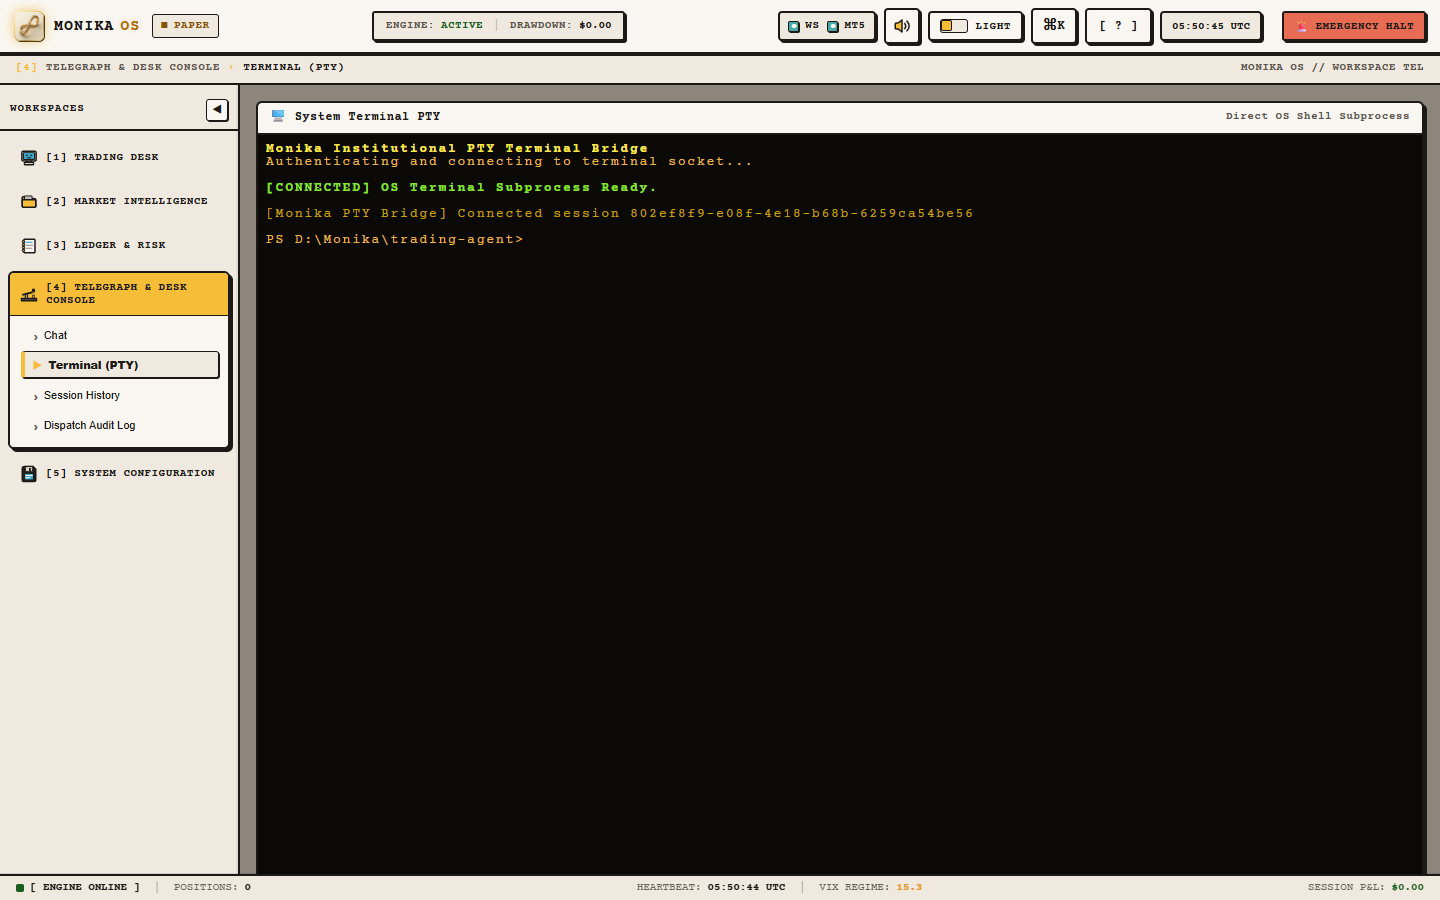
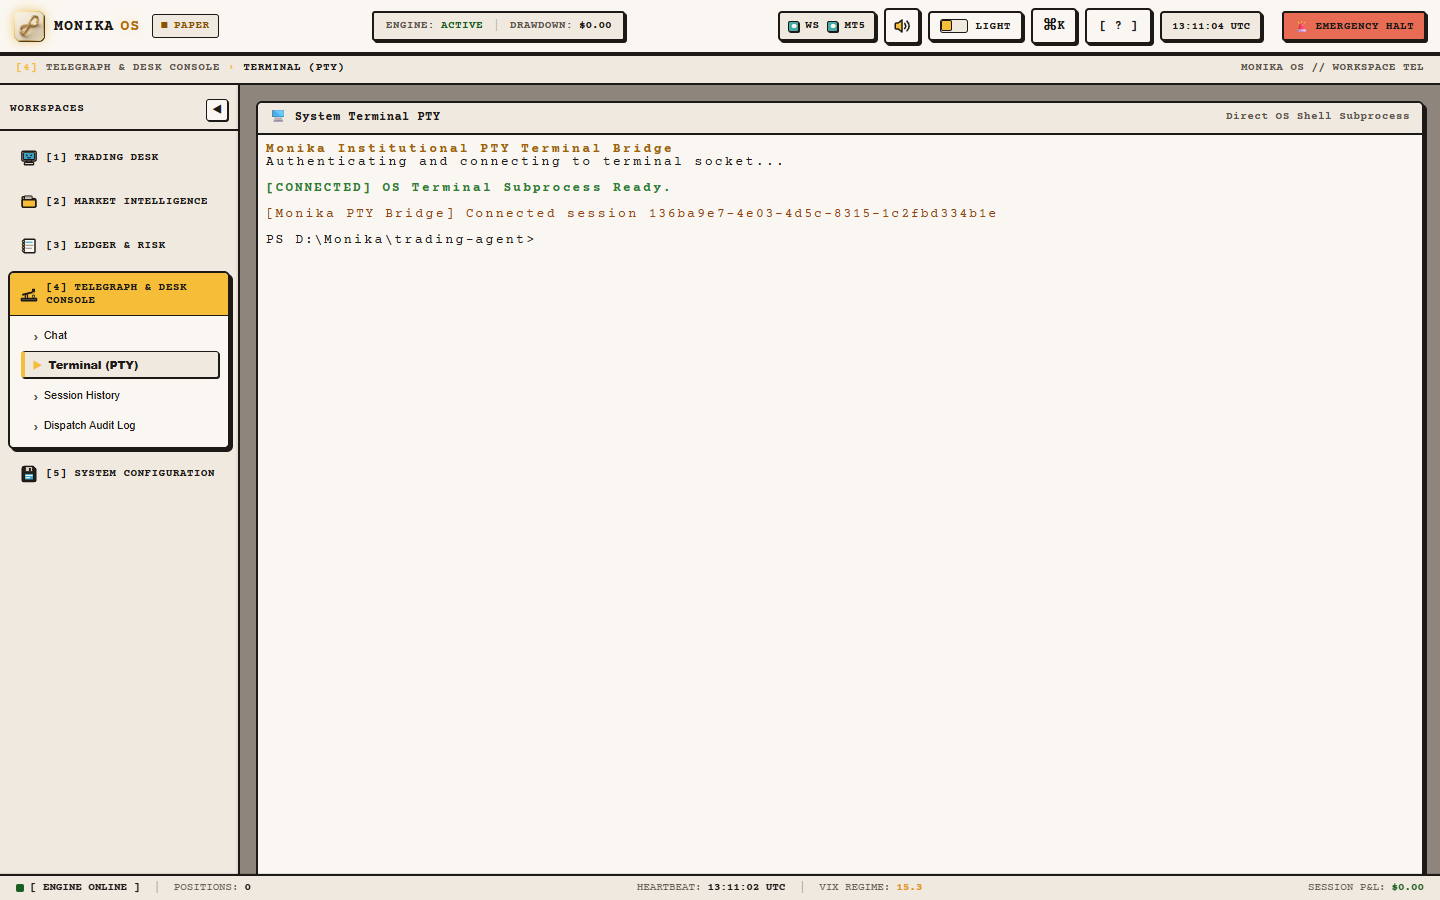
feat(dashboard): adapt terminal pty to dual light and dark theme
- Subscribe TerminalPanel to dashboardStore theme for reactive switching
- Add WCAG AA compliant light terminal theme (rich charcoal ink on #FAF7F2 parchment paper)
- Add dark terminal theme (phosphor amber on #0B0906 CRT console)
- Add viewport background CSS variables for light and dark modes
- Recapture docs/images/dashboard/web_18_terminal_pty_{light,dark}.png

Verified-by: oxlint, vite build, ruff check

diff --git a/trading-agent/logging_observability/dashboard/frontend/src/components/panels/TerminalPanel.tsx b/trading-agent/logging_observability/dashboard/frontend/src/components/panels/TerminalPanel.tsx
@@ -1,8 +1,59 @@
 import React, { useEffect, useRef } from 'react';
-import { Terminal } from '@xterm/xterm';
+import { Terminal, type ITheme } from '@xterm/xterm';
 import { FitAddon } from '@xterm/addon-fit';
 import '@xterm/xterm/css/xterm.css';
 import { api, getStoredToken } from '../../lib/api';
+import { useDashboardStore } from '../../store/dashboardStore';
+
+const DARK_TERMINAL_THEME: ITheme = {
+  background: '#0B0906',
+  foreground: '#E8B94A',
+  cursor: '#F5BD38',
+  cursorAccent: '#0B0906',
+  selectionBackground: 'rgba(232, 185, 74, 0.3)',
+  selectionForeground: '#FAF7F2',
+  black: '#0B0906',
+  red: '#E25B45',
+  green: '#4CAF50',
+  yellow: '#F5BD38',
+  blue: '#3BA4C4',
+  magenta: '#D3869B',
+  cyan: '#48A9A6',
+  white: '#FAF7F2',
+  brightBlack: '#5C544C',
+  brightRed: '#F46A6A',
+  brightGreen: '#66BB6A',
+  brightYellow: '#F5BD38',
+  brightBlue: '#5BC3E0',
+  brightMagenta: '#E5A4B8',
+  brightCyan: '#64C5B1',
+  brightWhite: '#FFFFFF',
+};
+
+const LIGHT_TERMINAL_THEME: ITheme = {
+  background: '#FAF7F2',
+  foreground: '#1C1917',
+  cursor: '#1C1917',
+  cursorAccent: '#FAF7F2',
+  selectionBackground: 'rgba(59, 164, 196, 0.3)',
+  selectionForeground: '#1C1917',
+  black: '#1C1917',
+  red: '#B71C1C',
+  green: '#1B5E20',
+  yellow: '#92400E',
+  blue: '#1B365D',
+  magenta: '#7B1FA2',
+  cyan: '#0F5E77',
+  white: '#EFE9DF',
+  brightBlack: '#5C544C',
+  brightRed: '#D32F2F',
+  brightGreen: '#2E7D32',
+  brightYellow: '#A16207',
+  brightBlue: '#2A7991',
+  brightMagenta: '#8E24AA',
+  brightCyan: '#00897B',
+  brightWhite: '#FFFFFF',
+};
 
 interface TerminalPanelProps {
   className?: string;
@@ -14,23 +65,20 @@ export const TerminalPanel: React.FC<TerminalPanelProps> = ({ className, style }
   const termRef = useRef<Terminal | null>(null);
   const fitAddonRef = useRef<FitAddon | null>(null);
   const wsRef = useRef<WebSocket | null>(null);
+  const { theme } = useDashboardStore();
+  const isLight = theme === 'light';
 
   useEffect(() => {
     if (!containerRef.current) return;
     let isCancelled = false;
 
+    const initialIsLight = useDashboardStore.getState().theme === 'light';
     const term = new Terminal({
       cursorBlink: true,
       fontFamily: 'var(--font-precision), Consolas, "Fira Code", monospace',
       fontSize: 13,
       lineHeight: 1.2,
-      theme: {
-        background: '#0B0906',
-        foreground: '#E8B94A',
-        cursor: '#F5BD38',
-        cursorAccent: '#0B0906',
-        selectionBackground: 'rgba(232, 185, 74, 0.3)',
-      },
+      theme: initialIsLight ? LIGHT_TERMINAL_THEME : DARK_TERMINAL_THEME,
     });
 
     const fitAddon = new FitAddon();
@@ -131,6 +179,15 @@ export const TerminalPanel: React.FC<TerminalPanelProps> = ({ className, style }
     };
   }, []);
 
+  useEffect(() => {
+    if (termRef.current) {
+      termRef.current.options.theme = isLight ? LIGHT_TERMINAL_THEME : DARK_TERMINAL_THEME;
+      try {
+        termRef.current.refresh(0, termRef.current.rows - 1);
+      } catch {}
+    }
+  }, [isLight]);
+
   return (
     <div
       className={className}
@@ -139,7 +196,7 @@ export const TerminalPanel: React.FC<TerminalPanelProps> = ({ className, style }
         flexDirection: 'column',
         height: '100%',
         minHeight: '520px',
-        background: 'var(--color-console-bg)',
+        background: isLight ? 'var(--color-paper-raised)' : 'var(--color-console-bg)',
         border: '2px solid var(--color-rule)',
         borderRadius: 'var(--radius-card)',
         overflow: 'hidden',
@@ -151,7 +208,7 @@ export const TerminalPanel: React.FC<TerminalPanelProps> = ({ className, style }
         className="win-titlebar"
         style={{
           padding: '6px 12px',
-          background: 'var(--color-paper-raised)',
+          background: isLight ? 'var(--color-paper)' : 'var(--color-paper-raised)',
           borderBottom: '2px solid var(--color-rule)',
           display: 'flex',
           alignItems: 'center',
@@ -159,6 +216,7 @@ export const TerminalPanel: React.FC<TerminalPanelProps> = ({ className, style }
           fontFamily: 'var(--font-precision)',
           fontSize: 'var(--text-body-sm)',
           fontWeight: 'bold',
+          color: 'var(--color-ink)',
         }}
       >
         <span>🖥 System Terminal PTY</span>
@@ -172,6 +230,7 @@ export const TerminalPanel: React.FC<TerminalPanelProps> = ({ className, style }
           flex: 1,
           padding: '8px',
           overflow: 'hidden',
+          background: isLight ? 'var(--color-paper-raised)' : 'var(--color-console-bg)',
         }}
       />
     </div>

diff --git a/trading-agent/logging_observability/dashboard/frontend/src/index.css b/trading-agent/logging_observability/dashboard/frontend/src/index.css
@@ -508,6 +508,15 @@ body {
   line-height: 1.7;
 }
 
+/* XTerm Terminal Dual-Theme Viewport */
+:root[data-theme="light"] .xterm .xterm-viewport {
+  background-color: var(--color-paper-raised) !important;
+}
+
+:root[data-theme="dark"] .xterm .xterm-viewport {
+  background-color: var(--color-console-bg) !important;
+}
+
 /* Web Dashboard Tactile Buttons */
 .win-btn,
 .typewriter-btn {
